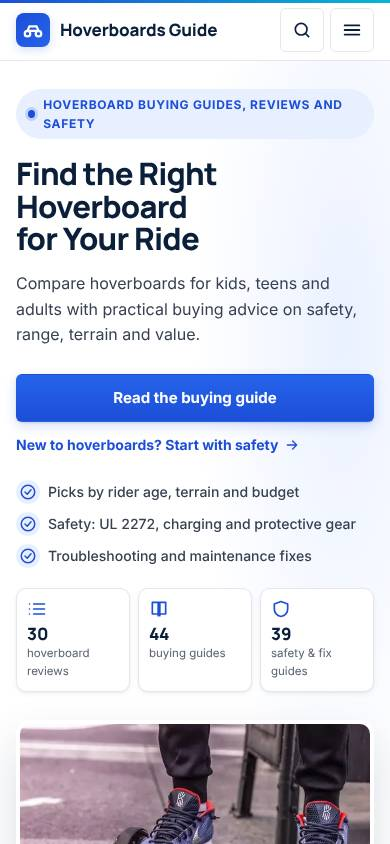
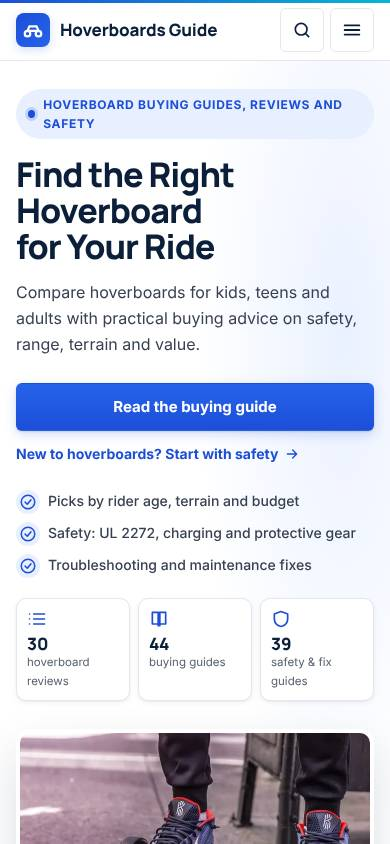
3.3.0: keep the hero stacked below 1024px (display-type rule had outranked the mobile override)
Claude-Session: https://claude.ai/code/session_01TyjAVrh8ngxA8mz8i8bt54

Changed region(s): [[0.0308, 0.1848, 0.9846, 0.8318], [0.0308, 0.7085, 0.9538, 1.0], [0.3692, 0.7085, 0.5846, 0.8009]]

diff --git a/hoverboards-guide/assets/css/theme.css b/hoverboards-guide/assets/css/theme.css
@@ -957,3 +957,7 @@ body:not(.single) .progress { display: none; }
 @media (max-width: 640px) {
 	.hero__title { font-size: 34px; }
 }
+/* Responsive guard for the reference-pass rules above (they must not outrank the stacked layouts) */
+@media (max-width: 1024px) {
+	.hero__inner { grid-template-columns: 1fr; }
+}
